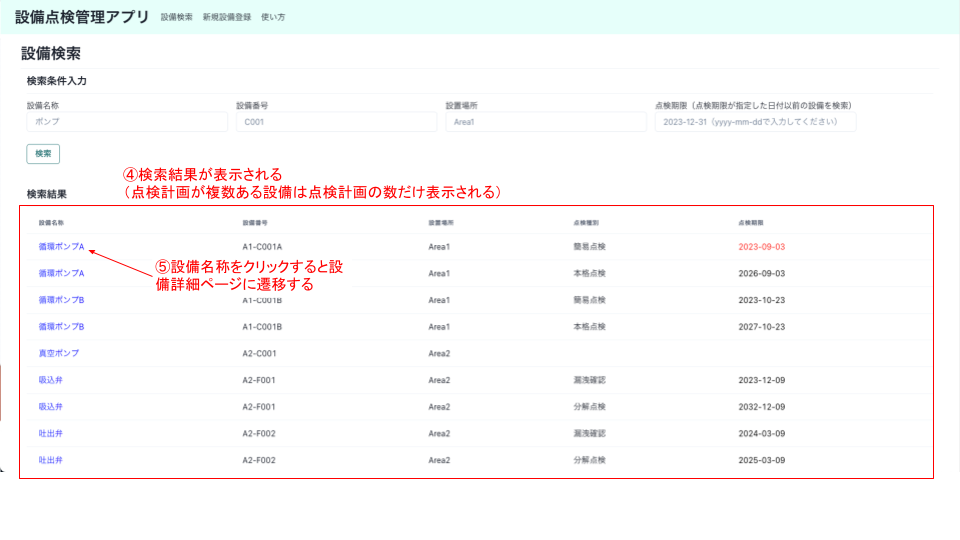
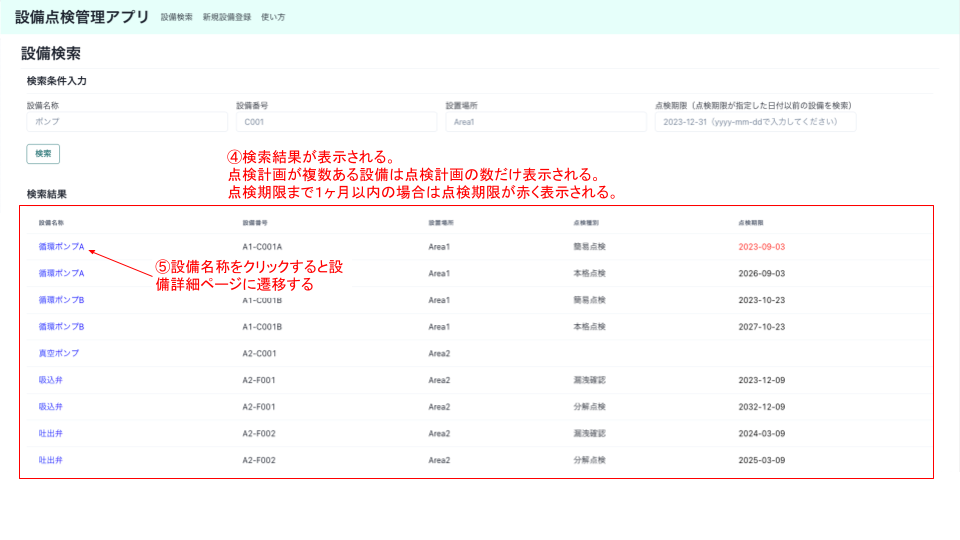
使い方ページを修正

Changed region(s): [[0.125, 0.2667, 0.6562, 0.3852]]

diff --git a/frontend/src/components/pages/HowToUse.tsx b/frontend/src/components/pages/HowToUse.tsx
@@ -1,4 +1,4 @@
-import { Box, Divider, HStack, Heading, Image } from "@chakra-ui/react";
+import { Box, Divider, HStack, Heading, Image, Text } from "@chakra-ui/react";
 
 export const HowToUse = () => {
   return (
@@ -59,6 +59,11 @@ export const HowToUse = () => {
           <Image src="./images/createEquipment1.png" w="700px" />
           <Image src="./images/createEquipment2.png" w="700px" />
         </HStack>
+        <Heading size="md">８．メール通知</Heading>
+        <br />
+        <Text>点検期限の１ヶ月前になると、対象設備の設備情報と点検期限を知らせるメールが送付されます。</Text>
+        <br />
+        <Image src="./images/mail.png" w="400px" />
       </Box>
     </Box>
   );
